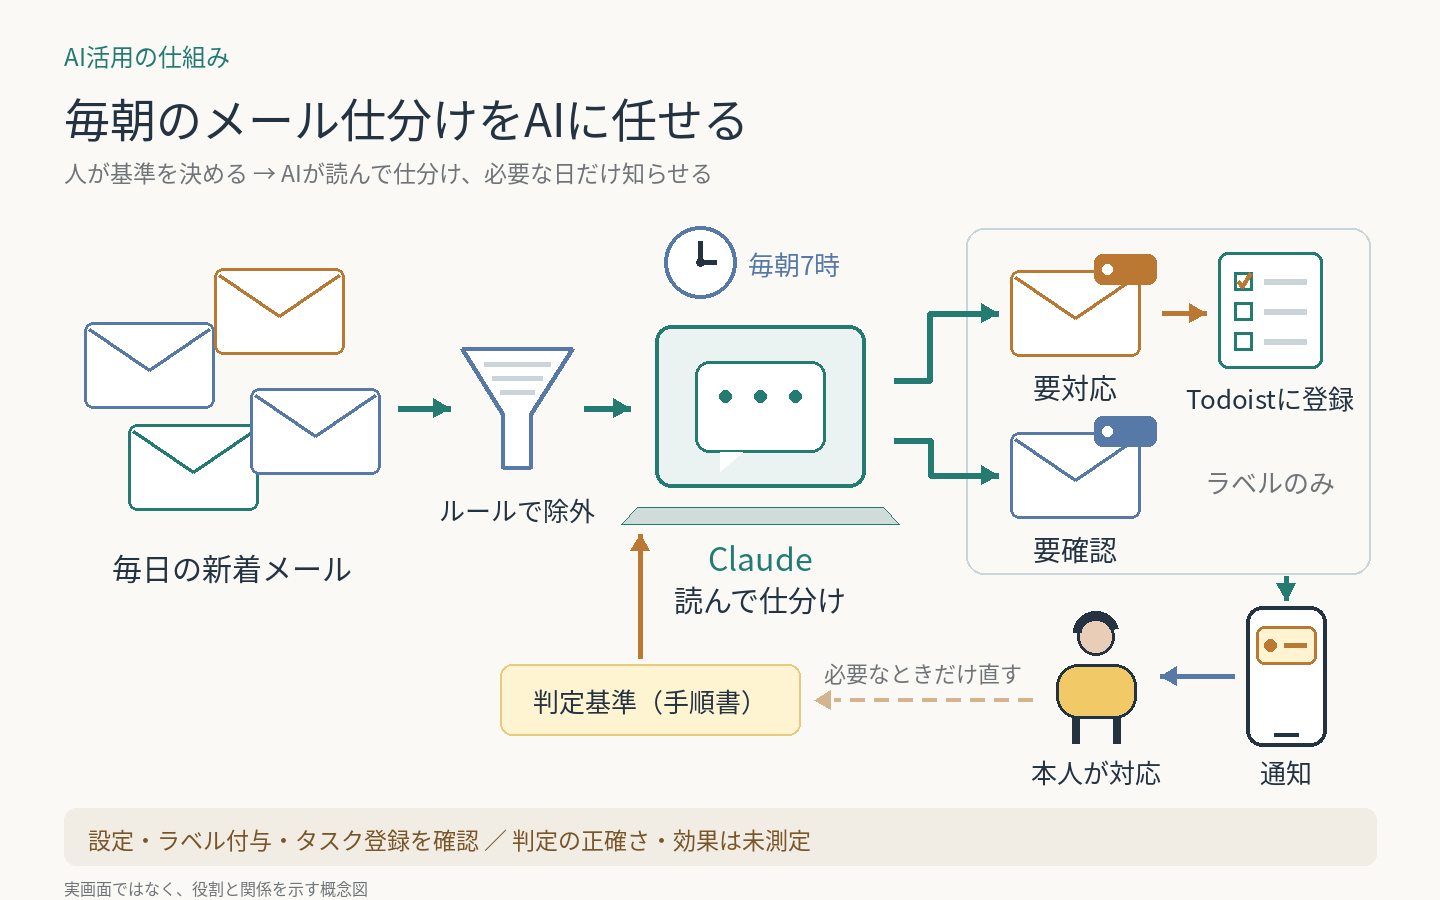
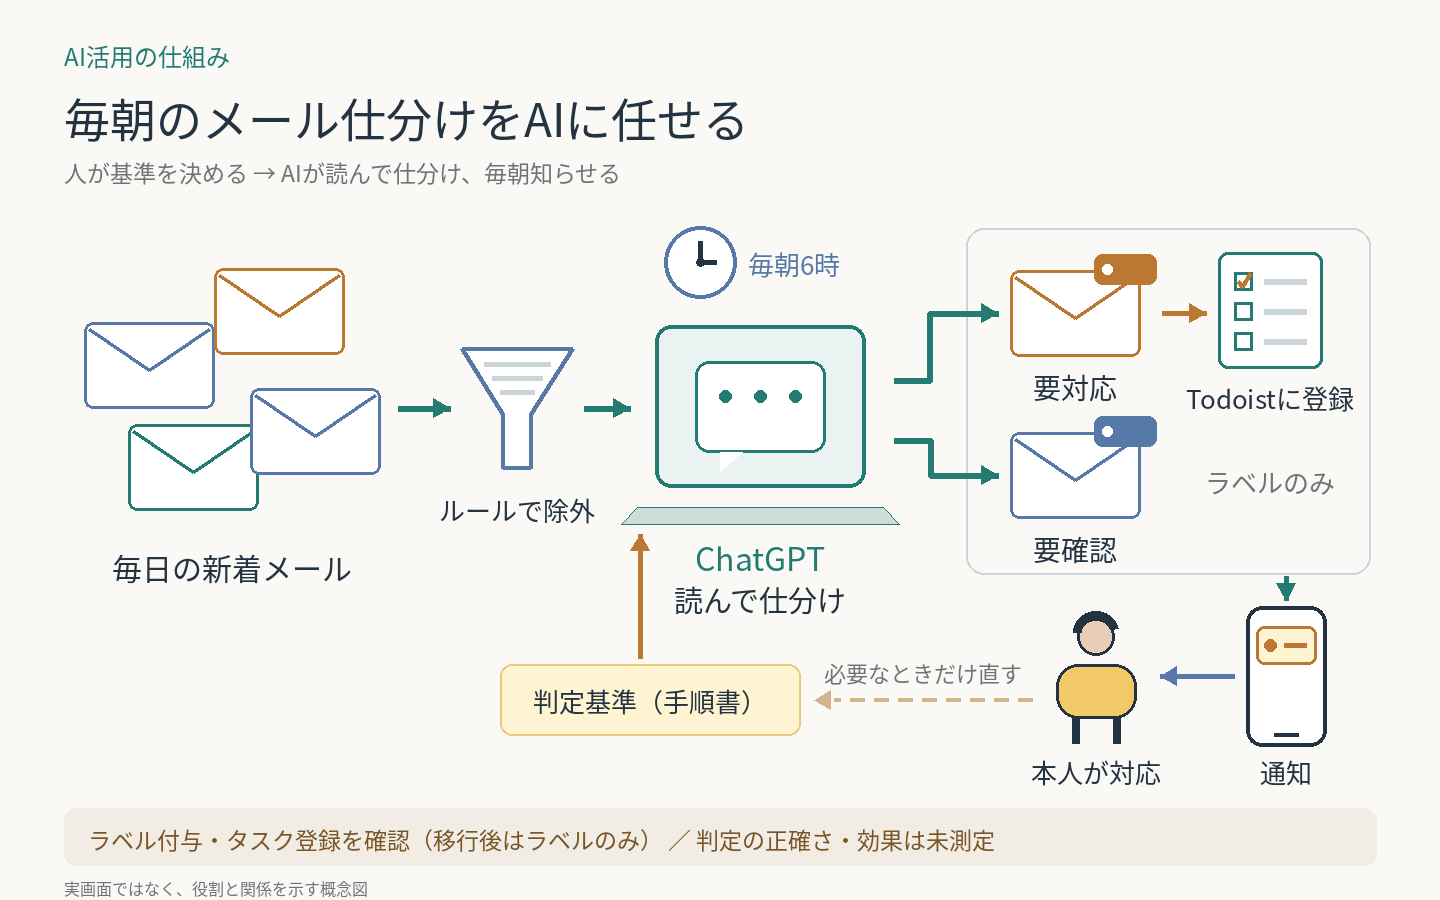
Update daily email triage: moved from Claude Code routine to ChatGPT's morning Todoist schedule
Email triage now runs as the first step of the 6:00 ChatGPT schedule, before the Inbox cleanup.
Updated the case, the daily task hub overview and their figures; added a pointer in the Todoist case.

diff --git a/cases/daily-email-triage/figure.py b/cases/daily-email-triage/figure.py
@@ -18,7 +18,7 @@ parser.add_argument('--font', required=True, help='Noto Sans JP / Noto Sans CJK 
 fk.init(parser.parse_args().font)
 
 # ---- cover.png：一目で分かる入口 ----
-fk.begin('毎朝のメール仕分けをAIに任せる', '人が基準を決める → AIが読んで仕分け、必要な日だけ知らせる')
+fk.begin('毎朝のメール仕分けをAIに任せる', '人が基準を決める → AIが読んで仕分け、毎朝知らせる')
 
 # 左：たまっていく新着メール
 for x, y, c in [(84, 322, fk.BLUE), (214, 268, fk.AMBER), (128, 424, fk.TEAL), (250, 388, fk.BLUE)]:
@@ -31,11 +31,11 @@ fk.centered(517, 490, 'ルールで除外', 26)
 fk.arrow([(398, 408), (450, 408)])
 fk.arrow([(584, 408), (630, 408)])
 
-# 中央：毎朝動くClaude
+# 中央：毎朝動くAI（2026-10-28にClaude CodeのルーティンからChatGPTのスケジュールへ移した）
 fk.clock(700, 262)
-fk.text(748, 244, '毎朝7時', 26, fk.BLUE)
+fk.text(748, 244, '毎朝6時', 26, fk.BLUE)
 fk.laptop(655, 325, 210, 162)
-fk.centered(760, 533, 'Claude', 32, fk.TEAL)
+fk.centered(760, 533, 'ChatGPT', 32, fk.TEAL)
 fk.centered(760, 578, '読んで仕分け', 29)
 
 # 右：仕分け結果（枠＝この結果をもとに通知する）
@@ -68,14 +68,14 @@ fk.arrow([(640, 658), (640, 534)], fk.AMBER, 5)
 fk.dashed_arrow([(1032, 700), (814, 700)], fk.FAINT, 4)
 fk.centered(923, 656, '必要なときだけ直す', 22, fk.GRAY)
 
-fk.footer('設定・ラベル付与・タスク登録を確認 ／ 判定の正確さ・効果は未測定')
+fk.footer('ラベル付与・タスク登録を確認（移行後はラベルのみ） ／ 判定の正確さ・効果は未測定')
 fk.save(HERE / 'cover.png')
 
 # ---- flow.png：必要な説明を補う図 ----
-fk.cards('メール仕分け：作業と判断の分担', '設定と出力を確認 ／ 判定の正確さ・効果は未測定', [
+fk.cards('メール仕分け：作業と判断の分担', '8月〜はClaude、10/28〜はChatGPTが実行 ／ 判定の正確さ・効果は未測定', [
     ('課題', ['通知を切ると大事なメールを見落とす', '全部読むにはノイズが多すぎる']),
-    ('AIの作業', ['毎朝、未読を読んで3つに仕分ける', '要対応はTodoistへ登録、毎朝通知']),
+    ('AIの作業', ['毎朝、未読を読んで3つに仕分ける', '要対応はTodoistへ。続けて整理']),
     ('人間の判断', ['判定基準を手順書に決めておく', '削除・整理と実際の対応は本人が行う']),
-    ('確認すること', ['ラベル付与とタスク登録は確認済み', '判定の正確さと時間削減は未測定']),
+    ('確認すること', ['ラベル付与は移行の前後とも確認', '判定の正確さと時間削減は未測定']),
 ])
 fk.save(HERE / 'flow.png')

diff --git a/systems/daily-task-hub/figure.py b/systems/daily-task-hub/figure.py
@@ -11,8 +11,8 @@ f.centered(150, 414, 'Gmail', 29)
 f.arrow([(240, 348), (315, 348)])
 f.laptop(350, 275)
 f.clock(570, 263, 27)
-f.centered(460, 480, 'Claude側の定期処理', 27)
-f.centered(460, 518, '毎朝仕分け・最大5件', 23, f.GRAY)
+f.centered(460, 480, 'ChatGPTの毎朝処理', 27)
+f.centered(460, 518, '①まずメールを仕分け', 23, f.GRAY)
 f.arrow([(604, 348), (685, 348), (685, 398)])
 f.d.polygon([(745,222),(786,222),(786,280),(765,267),(745,280)],fill=f.TEAL)
 f.centered(767,190,'週次の振り分け',21,f.TEAL)
@@ -24,8 +24,8 @@ f.centered(767, 610, 'タスクの正本', 25, f.GRAY)
 f.arrow([(855, 448), (946, 448), (946, 349), (991, 349)])
 f.laptop(1025, 275)
 f.clock(1250, 263, 27)
-f.centered(1135, 480, 'ChatGPTの毎日整理', 27)
-f.centered(1135, 518, '確認・優先度・順序', 23, f.GRAY)
+f.centered(1135, 480, 'ChatGPTの毎朝処理', 27)
+f.centered(1135, 518, '②続けて優先度・順序', 23, f.GRAY)
 f.arrow([(1135, 560), (1135, 593)])
 f.person(1135, 663, .62)
 f.centered(1135, 756, '本人が判断・実行', 25)
@@ -40,5 +40,5 @@ f.d.polygon([(477, 646), (487, 656), (455, 681), (443, 684), (447, 672)], fill=f
 f.centered(423, 697, '手入力', 25)
 f.centered(423, 735, 'アプリ・ブラウザ', 20, f.GRAY)
 f.arrow([(515, 650), (650, 650), (650, 500)], f.BLUE)
-f.footer('各定期処理は独立して実行。「最大5件」は本人の説明。連続実行の保証はない。')
+f.footer('①②は同じ毎朝の処理で順に実行（10/28〜）。週次の振り分けは独立して動く。')
 f.im.quantize(colors=96).save(Path(__file__).with_name('cover.png'), optimize=True)

diff --git a/systems/daily-task-hub/README.md b/systems/daily-task-hub/README.md
@@ -2,22 +2,22 @@
 
 ![メール・音声・手入力をTodoistに集め、AIが整理し本人が実行する全体図](cover.png)
 
-メールからの自動登録、iPhoneのアクションボタンからの音声指示、アプリ・ブラウザでの手入力をTodoistへ集約する。ChatGPTがInboxを整理し、本人は整理結果を確認して実際の作業を行う。
+メールからの自動登録、iPhoneのアクションボタンからの音声指示、アプリ・ブラウザでの手入力をTodoistへ集約する。ChatGPTが毎朝メールを仕分けてからInboxを整理し、本人は整理結果を確認して実際の作業を行う。
 
 | 段階 | 担当と役割 |
 | --- | --- |
-| メールを拾う | Claude側の朝の定期処理がGmailを仕分け。今回の本人説明では対応・確認事項を最大5件登録 |
+| メールを拾う | ChatGPTの毎朝6時の処理が、最初にGmailを仕分けて要対応をInboxへ登録（2026-10-28まではClaude Codeのルーティンが7時に実行） |
 | 思いつきを入れる | 本人が音声指示、アプリ、ブラウザから入力。音声の中継アプリ・内部経路は未確認 |
 | 保存から買い物へ | ChatGPTのブックマーク整理で、近々買うものを買い物プロジェクトへ。初回登録を確認、週次設定済み |
 | 集約する | Todoistがタスク管理の正本。主な整理対象はInbox。ブックマークからの買い物登録は別プロジェクトで、日次Inbox整理との自動連続実行は保証しない |
-| 整理する | ChatGPTの毎朝の処理が分類、親子関係、時間・委譲先、優先度、実施順を整理 |
+| 整理する | 同じ毎朝の処理の続きで、メール由来を含むInboxの分類、親子関係、時間・委譲先、優先度、実施順を整理 |
 | 行動する | 本人が結果を確認して実行。タグ付けだけで別AIの作業が始まるわけではない |
 
 繰り返しプロジェクトは棚卸しから除外。他プロジェクトの期限確認は読み取りだけ。整理の書き込みはInboxに限定する。
 
-**図は情報の流れを示す。入力後ただちに後続処理が起動する連鎖ではなく、定期処理はそれぞれ独立して動く。** 同日の新規入力が整理に間に合うかは実行順序に依存する。
+**図は情報の流れを示す。メール仕分けとInbox整理は、2026-10-28から同じ毎朝の処理の中で順に動く。** それ以外の入力（音声・手入力・週次の振り分け）は、入った時点で後続処理が起動する連鎖ではない。
 
-メールケースの記録では実行環境はClaude Codeのルーティン、今回の本人説明ではClaude.aiと呼ばれているため、全体図では「Claude側」とする。最大5件の上限と音声経路は本人説明に基づき、設定を直接検証していない。要確認メールの全件タスク化も未確認。
+移行前の本人説明にあったメール登録の「最大5件」は、移行後の手順書には無いため図から外した。音声経路は本人説明に基づき、設定を直接検証していない。
 
 2026-10-21からは、整理後のTodoistを各リポジトリの作業・予定と並べて1日の時刻割りにする[横断タスクボード](../cross-task-board/)を別の全体構成として試用中。そこではClaude Codeが本人の指示を受けたときだけ、Todoistのタスクを完了・日付変更する。
 

diff --git a/cases/daily-email-triage/README.md b/cases/daily-email-triage/README.md
@@ -1,9 +1,10 @@
 # 毎朝のメール仕分けをAIへ委譲
 
-![新着メールをルールとAIで仕分け、必要な日だけ本人へ通知する流れ](cover.png)
+![新着メールをルールとAIで仕分け、要対応をTodoistへ入れて毎朝本人へ知らせる流れ](cover.png)
 
-通知を切ると大事なメールを見落とし、全部読むにはノイズが多い。この確認作業を、Claude Codeのルーティン（クラウドの定期実行）へ委譲する事例。
+通知を切ると大事なメールを見落とし、全部読むにはノイズが多い。この確認作業をAIの定期実行へ委譲する事例。
 先にGmailのフィルタで明らかなノイズを外し、残りをAIが毎朝読んで「要対応／要確認／不要」に分ける。
+2026年8月にClaude Codeのルーティンで始め、10月28日にChatGPTの毎朝のTodoist整理の前段へ移した。
 **設定と、ラベル付与・タスク登録までの出力を確認。判定の正確さと効果は未測定。**
 
 | 従来 | 運用の形 |
@@ -13,13 +14,14 @@
 **AI：** 未読メールの判定、ラベル付け、タスク登録、通知。削除・アーカイブ・返信はしない。  
 **人間：** 判定基準の決定（修正は必要なときだけ）、メールの整理、実際の対応。
 
-2026年8月から稼働。要対応ラベル30件、タスク登録の送信27通を確認した（2026-10-23）。
+要対応ラベル30件・タスク登録の送信27通を確認（移行前、2026-10-23）。移行後もラベル付与を確認（2026-10-29）。
 
 再利用できる工夫：
 
-- 判定基準は手順書1か所に置く。直せば翌朝から反映される。
+- 判定基準は手順書1か所に置く。実行するAIを替えても、基準はそのまま使えた。
+- 仕分けをタスク整理の前に置く。メール由来のタスクがその日の優先順位に入る。
+- メールの期限は予定日でなくタスク名に書く。整理側が未来の予定と見て後回しにしないため。
 - 迷ったら「要確認」に倒す。
-- タスク登録は「追加しかできない」経路に絞る。
 - 0件の日も毎朝通知を送る。通知が来なければ、止まったと気づける。
 
 <details>
@@ -29,6 +31,6 @@
 
 </details>
 
-[タスク管理の全体像](../../systems/daily-task-hub/)
+[タスク管理の全体像](../../systems/daily-task-hub/) ／ [毎朝のTodoist整理](../daily-todoist-triage/)
 
 [一覧へ戻る](../../README.md)

diff --git a/cases/daily-todoist-triage/README.md b/cases/daily-todoist-triage/README.md
@@ -17,6 +17,8 @@
 - 繰り返しプロジェクトは取得・変更・報告から除外。他プロジェクトの期限確認は読み取りだけ。
 - 変更前後を照合し、関係・期限の保持と重複を確認する。日曜は大きな目標の次の一手も見直す。
 
+2026-10-28から、同じ毎朝のスケジュールの最初に[メール仕分け](../daily-email-triage/)を行い、メールから来たタスクもその日の整理に含める。
+
 削減時間・継続運用の効果は未測定。
 
 [タスク管理の全体像](../../systems/daily-task-hub/) ／ [横断タスクボード](../../systems/cross-task-board/)
